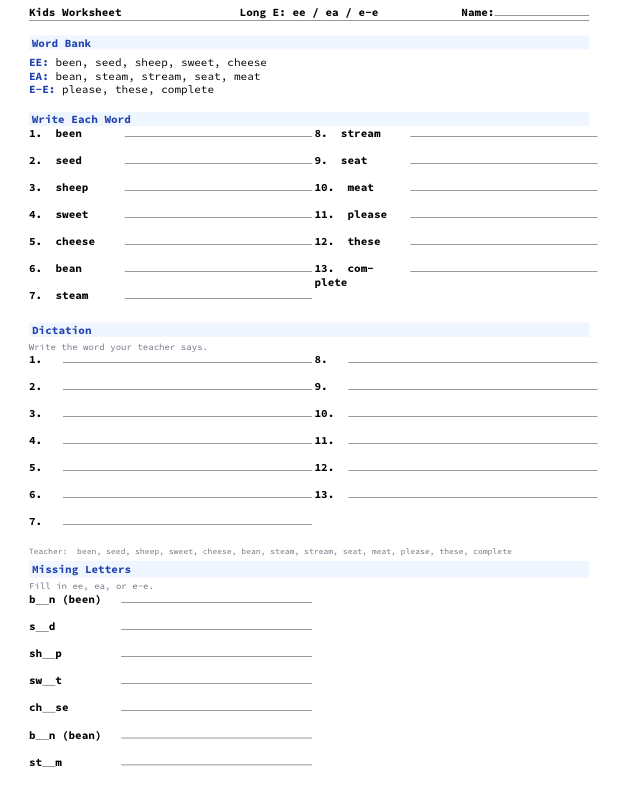
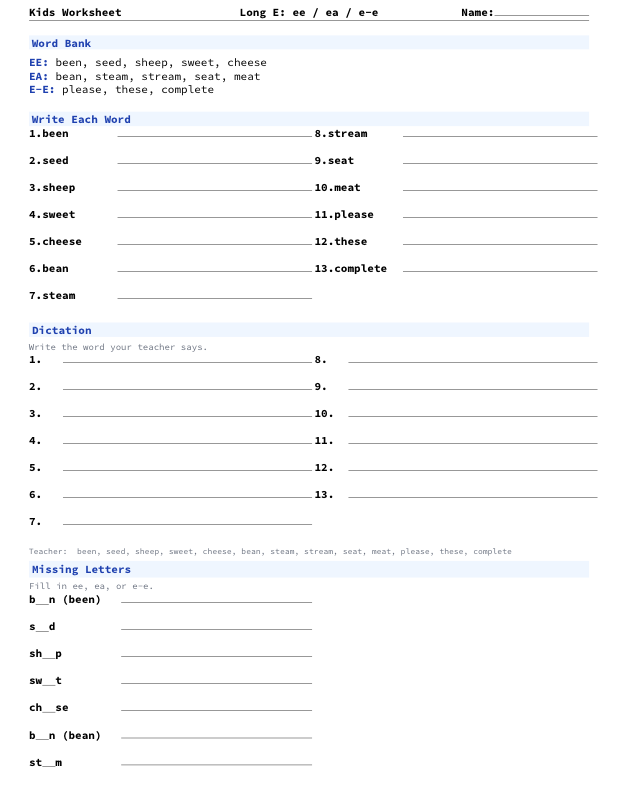
Write Each Word - remove space after number, add gap before line

Changed region(s): [[0.0615, 0.1562, 0.1537, 0.375], [0.5227, 0.1562, 0.6149, 0.3438], [0.5227, 0.3438, 0.5534, 0.375]]

diff --git a/src/word-test-long-e.tex b/src/word-test-long-e.tex
@@ -39,7 +39,7 @@
 \newcommand{\LBox}{\,\fbox{\rule{0pt}{0.13in}\rule{0.12in}{0pt}}\,}
 
 \newcommand{\Tbl}[2]{\renewcommand{\arraystretch}{0.8}\begin{tabular}{@{}p{#1}p{\dimexpr\linewidth-#1-0.05in}@{}}#2\end{tabular}}
-\newcommand{\Row}[1]{\textbf{#1} & \Line{\linewidth}\\[\RowGap]}
+\newcommand{\Row}[1]{\textbf{#1}\hspace{0.08in} & \Line{\linewidth}\\[\RowGap]}
 
 \newcommand{\WordList}{been, seed, sheep, sweet, cheese, bean, steam, stream, seat, meat, please, these, complete}
 
@@ -54,9 +54,9 @@
 \vspace{0.15in}
 \Sec{Write Each Word}
 \begin{multicols}{2}
-\Tbl{1.15in}{\Row{1. been}\Row{2. seed}\Row{3. sheep}\Row{4. sweet}\Row{5. cheese}\Row{6. bean}\Row{7. steam}}
+\Tbl{1.05in}{\Row{1.been}\Row{2.seed}\Row{3.sheep}\Row{4.sweet}\Row{5.cheese}\Row{6.bean}\Row{7.steam}}
 \columnbreak
-\Tbl{1.15in}{\Row{8. stream}\Row{9. seat}\Row{10. meat}\Row{11. please}\Row{12. these}\Row{13. complete}}
+\Tbl{1.05in}{\Row{8.stream}\Row{9.seat}\Row{10.meat}\Row{11.please}\Row{12.these}\Row{13.complete}}
 \end{multicols}
 
 \Sec{Dictation}
